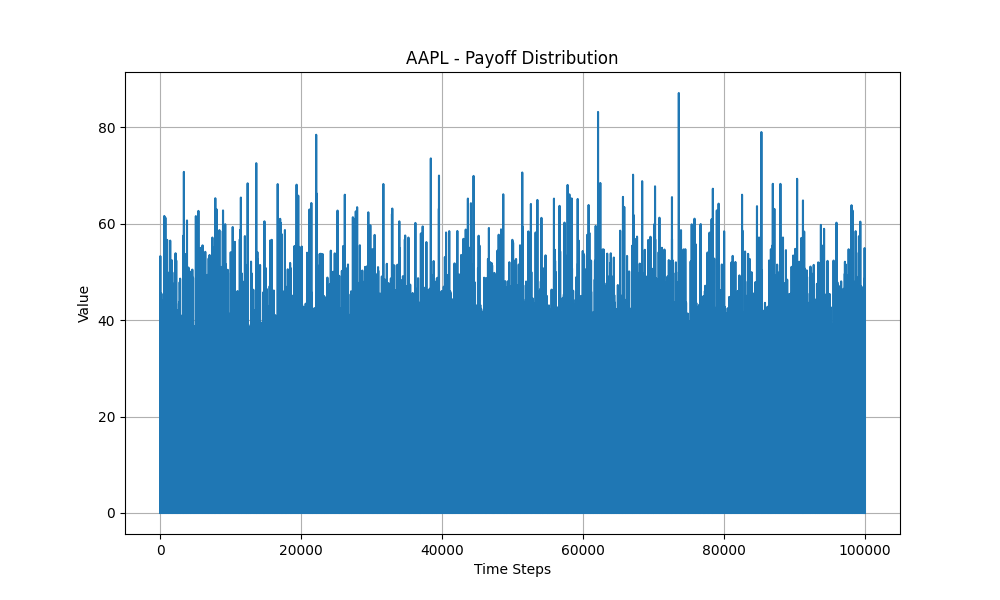
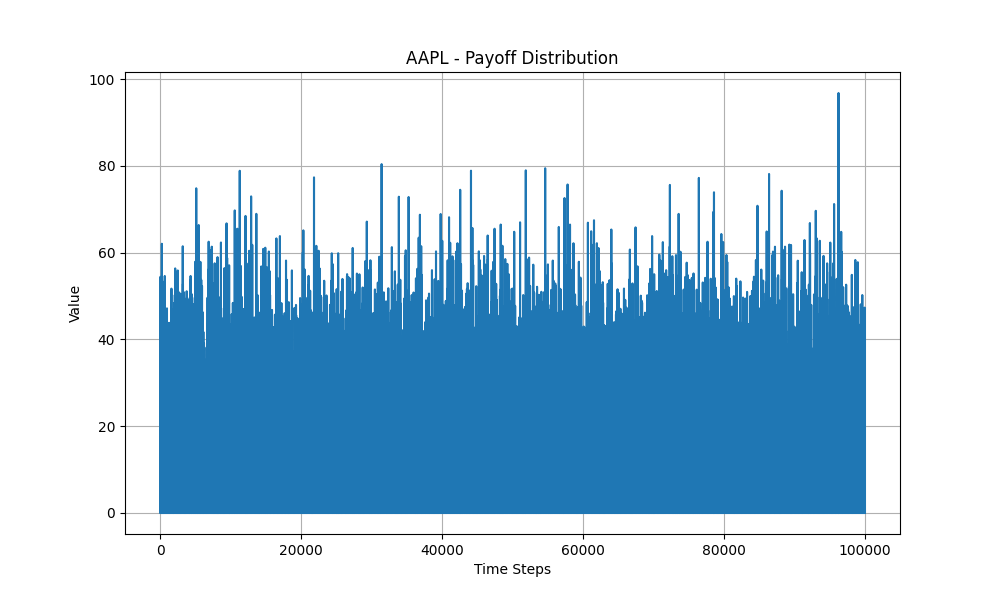
Add files via upload

diff --git a/main.py b/main.py
@@ -1,7 +1,7 @@
 # main.py
 
 import numpy as np
-from stochastic_processes import GeometricBrownianMotion, HestonModel
+from stochastic_processes import GeometricBrownianMotion, HestonModel, JumpDiffusionProcess
 from option_models import (
     EuropeanCallOption, EuropeanPutOption, AsianCallOption, BarrierOption,
     LookbackOption, AmericanOption, RainbowOption, SpreadOption, DigitalOption,
@@ -207,6 +207,29 @@ def main():
     save_line_chart(simulator.get_payoff_distribution(), 'Digital Option - Payoff Distribution', 'digital_option_payoff_distribution.png')
     save_line_chart(simulator.get_price_path(), 'Cliquet Option - Price Path', 'cliquet_option_price_path.png')
     save_line_chart(simulator.get_payoff_distribution(), 'Cliquet Option - Payoff Distribution', 'cliquet_option_payoff_distribution.png')
+
+    # Initialize Jump-Diffusion Process
+    print("\n--- Jump-Diffusion Process Simulation ---")
+    jdp = JumpDiffusionProcess(mu=0.05, sigma=0.2, lam=1, kappa=-0.05, delta=0.1, r=r, seed=42)
+    
+    # Initialize European Call Option with Jump-Diffusion
+    european_call_jd = EuropeanCallOption(K=K)
+    simulator_jd = MonteCarloSimulator(process=jdp, option=european_call_jd, T=T, N=N, M=M, r=r, seed=42)
+    simulator_jd.set_initial_price(S0)
+    
+    # Simulate without variance reduction
+    price_jd, std_error_jd = simulator_jd.simulate()
+    print(f"European Call Option Price (Jump-Diffusion): {price_jd:.4f} ± {1.96*std_error_jd:.4f} (95% CI)")
+    
+    # Generate and save charts for Jump-Diffusion
+    save_line_chart(simulator_jd.get_price_path(), 'Jump-Diffusion - Price Path', 'jump_diffusion_price_path.png')
+    save_line_chart(simulator_jd.get_payoff_distribution(), 'Jump-Diffusion - Payoff Distribution', 'jump_diffusion_payoff_distribution.png')
+
+    # Plot payoff distribution for Jump-Diffusion
+    S_jd = jdp.generate_paths(S0=S0, T=T, N=N, M=M, level=0)
+    payoffs_jd = european_call_jd.payoff(S_jd)
+    discounted_payoffs_jd = np.exp(-r*T) * payoffs_jd
+    plot_histogram(discounted_payoffs_jd, title='Jump-Diffusion European Call Option Payoff Distribution', filename='jump_diffusion_payoff_histogram.png')
 
 def save_line_chart(data, title, filename):
     plt.figure(figsize=(10, 6))

diff --git a/stochastic_processes.py b/stochastic_processes.py
@@ -84,3 +84,35 @@ class HestonModel(StochasticProcess):
             S[:, t] = S[:, t-1] * np.exp((self.mu - 0.5 * v_prev) * dt + 
                                          np.sqrt(v_prev * dt) * Z2)
         return S
+
+class JumpDiffusionProcess(StochasticProcess):
+    def __init__(self, mu, sigma, lam, kappa, delta, r=0.0, seed=None):
+        self.mu = mu
+        self.sigma = sigma
+        self.lam = lam
+        self.kappa = kappa
+        self.delta = delta
+        self.r = r
+        self.seed = seed
+
+    def generate_paths(self, S0, T, N, M, level=0, Z=None):
+        dt = T / N
+        np.random.seed(self.seed)
+        size = (M, N)
+        
+        # Simulate Poisson jumps
+        poisson_random = np.random.poisson(self.lam * dt, size)
+        jump_sizes = np.random.normal(self.kappa, self.delta, size)
+        jumps = poisson_random * (np.exp(jump_sizes) - 1)
+        
+        # Simulate GBM
+        if Z is None:
+            Z = np.random.standard_normal(size)
+        drift = (self.mu - 0.5 * self.sigma ** 2) * dt
+        diffusion = self.sigma * np.sqrt(dt) * Z
+        
+        increments = drift + diffusion + np.log(1 + jumps)
+        log_S = np.log(S0) + np.cumsum(increments, axis=1)
+        S = np.exp(log_S)
+        
+        return np.column_stack((np.full(M, S0), S))

diff --git a/monte_carlo_simulation.py b/monte_carlo_simulation.py
@@ -5,7 +5,7 @@ from joblib import Parallel, delayed
 from variance_reduction import (
     AntitheticVariates, ControlVariates, ImportanceSampling, StratifiedSampling
 )
-from stochastic_processes import GeometricBrownianMotion, HestonModel
+from stochastic_processes import GeometricBrownianMotion, HestonModel, JumpDiffusionProcess
 from option_models import AmericanOption
 
 class MonteCarloSimulator:
@@ -44,7 +44,7 @@ class MonteCarloSimulator:
             price: Estimated option price.
             std_error: Standard error of the estimate.
         """
-        if isinstance(self.process, GeometricBrownianMotion) or isinstance(self.process, HestonModel):
+        if isinstance(self.process, (GeometricBrownianMotion, HestonModel, JumpDiffusionProcess)):
             S = self.process.generate_paths(S0=self.S0, T=self.T, N=self.N, M=self.M, level=level, Z=Z)
         else:
             raise NotImplementedError("Stochastic process not implemented.")

diff --git a/utils.py b/utils.py
@@ -3,6 +3,7 @@
 from scipy.stats import norm
 import numpy as np
 import matplotlib.pyplot as plt
+import os
 
 def black_scholes_price(option_type, S0, K, T, r, sigma):
     """
@@ -18,14 +19,16 @@ def black_scholes_price(option_type, S0, K, T, r, sigma):
         raise ValueError("Invalid option type. Use 'call' or 'put'.")
     return price
 
-def plot_histogram(payoffs, title='Payoff Distribution'):
-    """
-    Plots a histogram of the payoffs.
-    """
-    plt.figure(figsize=(10,6))
-    plt.hist(payoffs, bins=50, edgecolor='k', alpha=0.7)
+def plot_histogram(data, title, filename=None):
+    plt.figure(figsize=(10, 6))
+    plt.hist(data, bins=50, edgecolor='black')
     plt.title(title)
     plt.xlabel('Payoff')
     plt.ylabel('Frequency')
     plt.grid(True)
-    plt.show()
+    
+    if filename:
+        plt.savefig(os.path.join('results', filename))
+        plt.close()
+    else:
+        plt.show()
